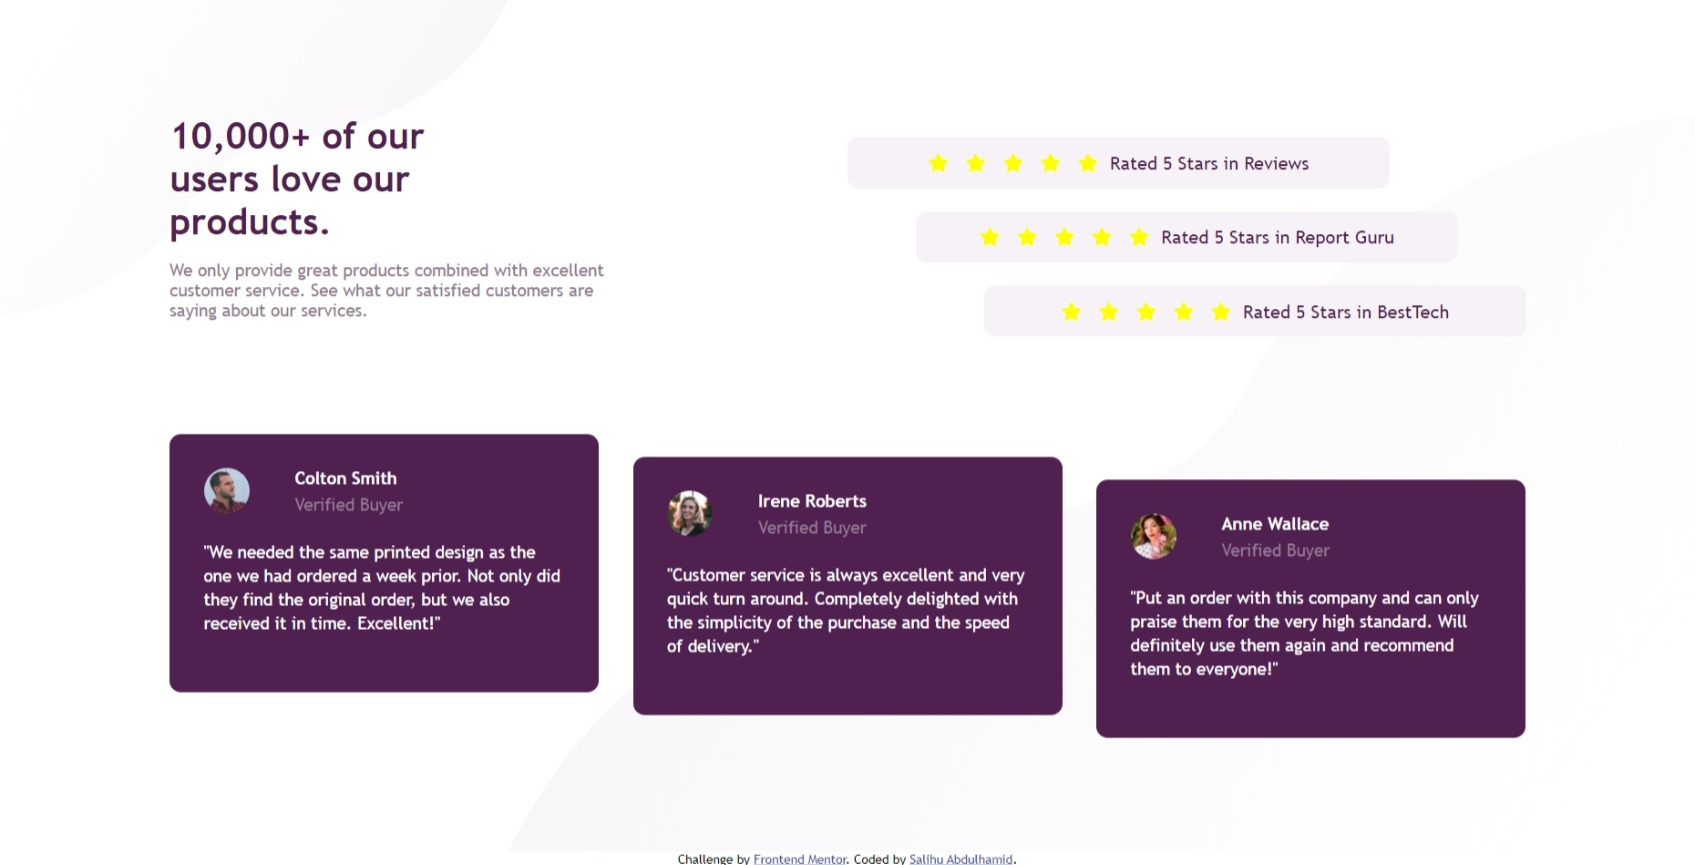
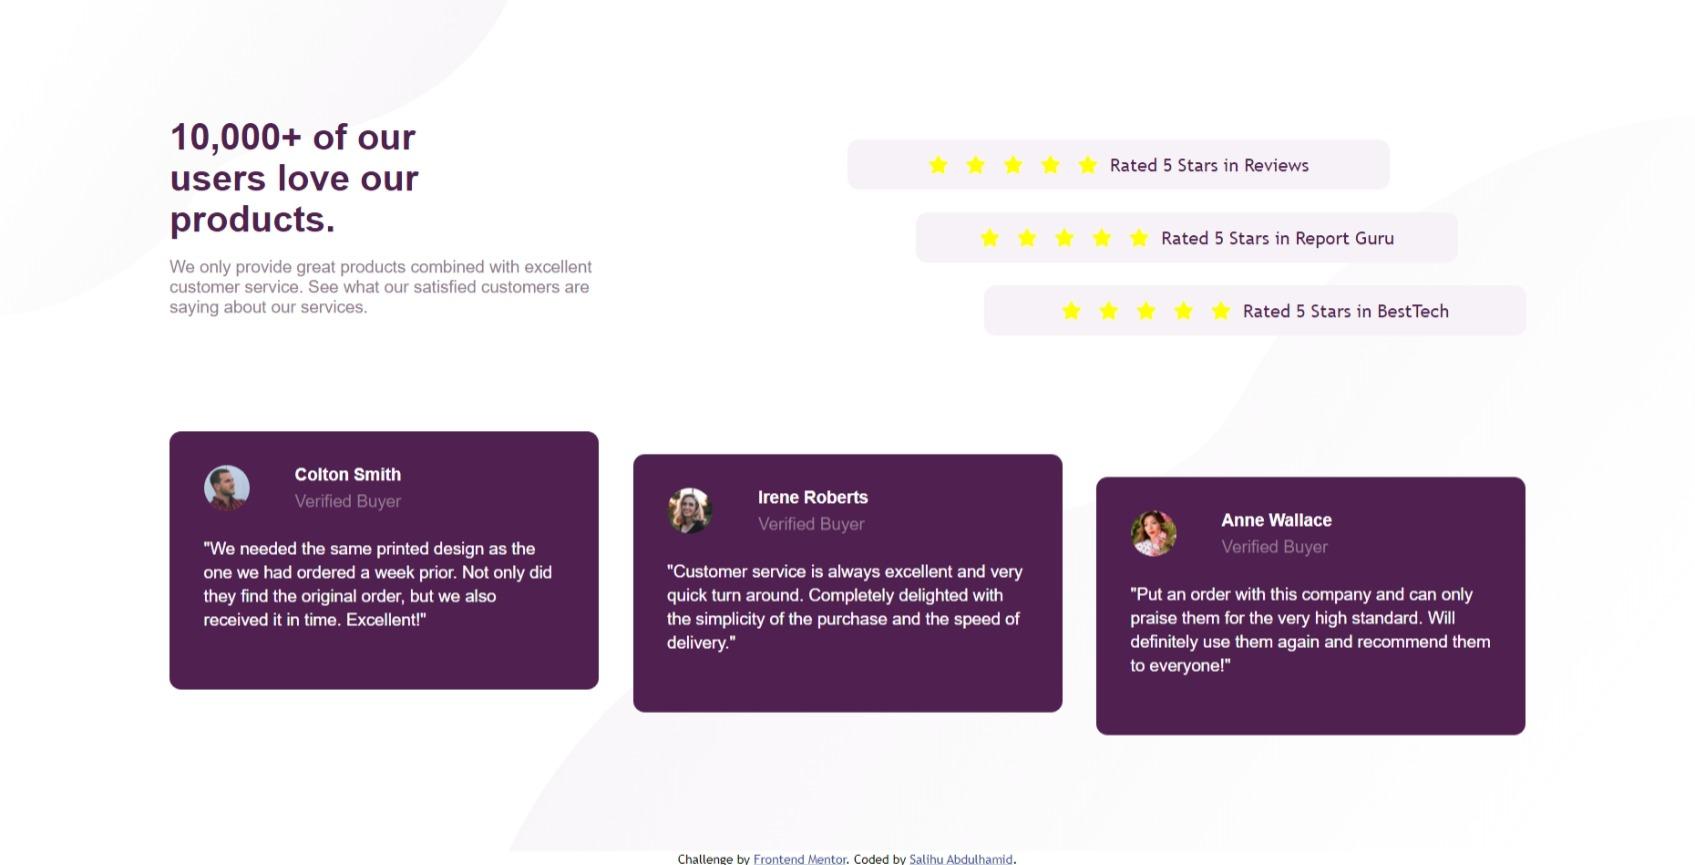
Add files via upload

diff --git a/style.css b/style.css
@@ -4,6 +4,8 @@
   box-sizing: border-box;
 }
 
+@import url("https://fonts.googleapis.com/css2?family=Spartan:wght@200&display=swap");
+
 .attribution {
   font-size: 11px;
   text-align: center;
@@ -55,12 +57,12 @@ main {
 }
 
 .heading {
-  font-family: Spartan;
+  font-family: "Spartan", sans-serif;
   color: hsl(300, 43%, 22%);
 }
 
 .paragraph {
-  font-family: Spartan;
+  font-family: "Spartan", sans-serif;
   color: hsl(303, 10%, 53%);
   padding-top: 15px;
   font-size: 15px;
@@ -141,20 +143,20 @@ main {
 
 .paragraph2 {
   color: hsl(0, 0%, 100%);
-  font-family: Spartan;
+  font-family: "Spartan", sans-serif;
   font-size: 15px;
   font-weight: 700;
 }
 .paragraph3 {
   color: hsl(303, 10%, 53%);
-  font-family: Spartan;
+  font-family: "Spartan", sans-serif;
   padding-top: 5px;
   font-size: 15px;
 }
 
 .paragraph4 {
   color: hsl(0, 0%, 100%);
-  font-family: Spartan;
+  font-family: "Spartan", sans-serif;
   font-size: 15px;
   font-weight: 400;
   padding: 20px 0px;
